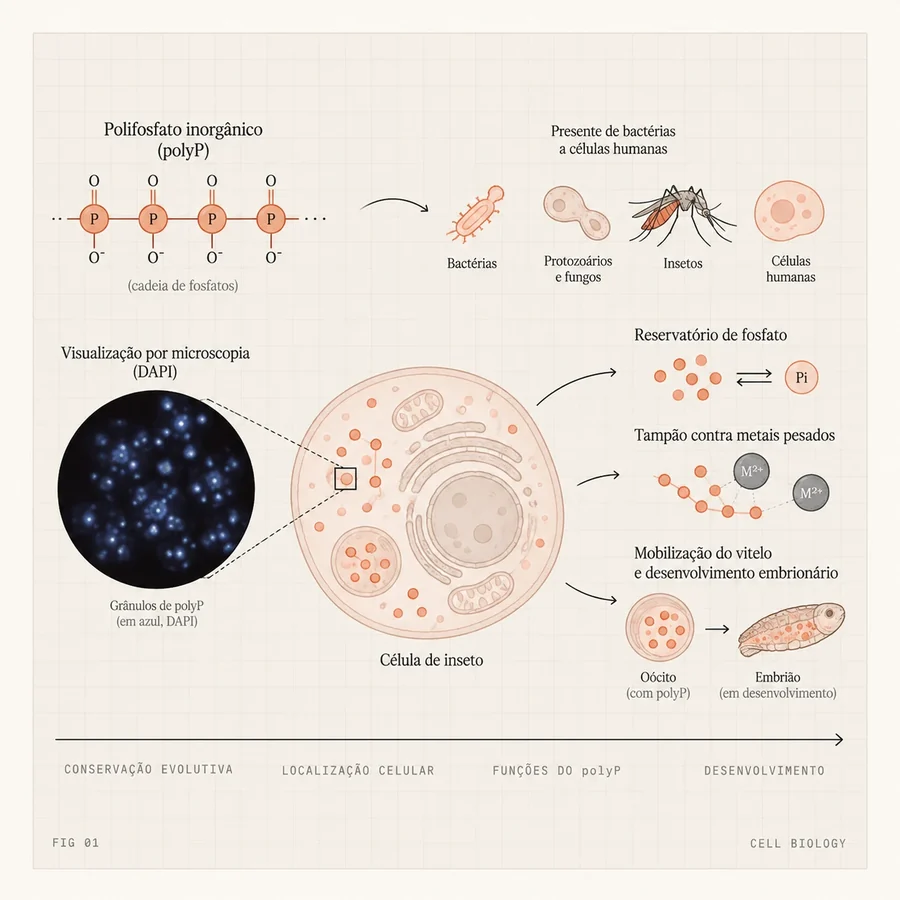
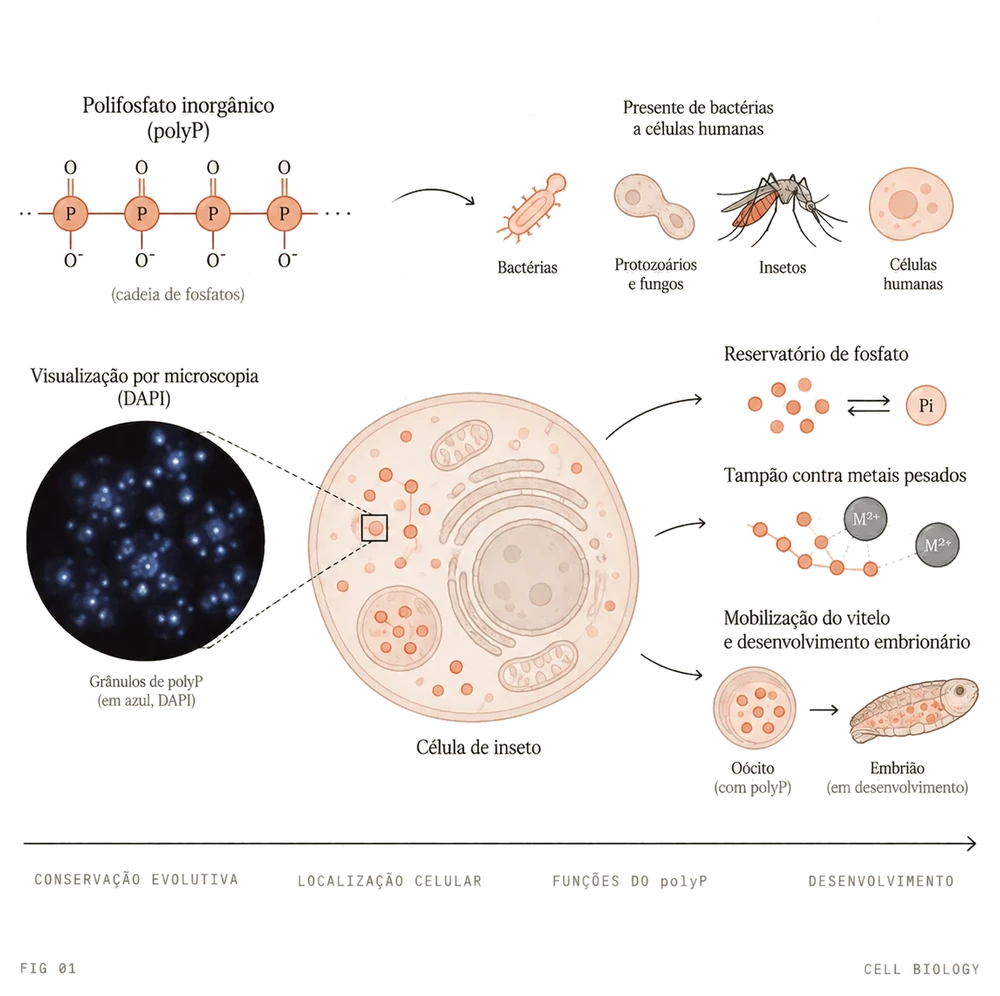
Fix broken research artwork: auto-crop to content, transparent background
The illustrations were being cut. They are square (1:1) but .diagram-box is 5:4
and I had set object-fit:cover, which scales to fill and clips ~20% of the
height - top and bottom of every figure. My mistake.

Reprocessed each illustration from the 1254px originals:
- The supplied files are rendered cards: a ~45px cream margin, a 1-2px border
  line, then a slightly different cream panel holding the art. That inner frame
  also doubled the border of our own diagram box.
- Detect the panel rect, inset past the border line, then flood-fill the panel
  background from its edges (connectivity, not plain colour match, so pale areas
  inside the drawing survive), feather the cut and crop to the content bounding
  box with 2% padding.
- Output WebP RGBA. Resulting opacity is 16-39%, matching the 14-36% ink
  coverage measured on the originals - nothing of the drawing was eaten.

Display: box is now 1:1 to match the art, object-fit:contain so nothing can be
clipped again, padding so the art breathes and clears the caption.

The art is light-toned (mean luminance 0.75; only 7-28% of ink is dark), so on
a dark page its linework would disappear. The plate therefore stays light in
both themes, with the caption pinned to a fixed ink colour - a figure on paper,
which is what these drawings are.

Changed region(s): [[0.0, 0.0311, 0.9956, 0.9956], [0.7156, 0.9022, 0.7467, 0.9333]]

diff --git a/research.html b/research.html
@@ -32,9 +32,10 @@
 .research-detail .refs li a:hover, .research-detail .refs li a:hover em { color: var(--coral-deep); }
 .research-detail .refs li a:focus-visible { outline: 2px solid var(--coral); outline-offset: 2px; border-radius: 2px; }
 
-.diagram-box { aspect-ratio: 5/4; background: var(--paper-2); border: 1px solid var(--line); border-radius: 4px; position: relative; overflow: hidden; }
+.diagram-box { aspect-ratio: 1/1; background: #FBF8F3; border: 1px solid var(--line); border-radius: 6px; position: relative; overflow: hidden; }
+html[data-theme="dark"] .diagram-box { background: #F6F2EA; border-color: rgba(255,255,255,.16); }
 .diagram-box svg { position: absolute; inset: 0; width: 100%; height: 100%; }
-.diagram-box .caption { position: absolute; bottom: 14px; left: 14px; right: 14px; font-family: 'JetBrains Mono', monospace; font-size: 9px; letter-spacing: 0.14em; text-transform: uppercase; color: var(--muted); display: flex; justify-content: space-between; }
+.diagram-box .caption { position: absolute; bottom: 14px; left: 16px; right: 16px; font-family: 'JetBrains Mono', monospace; font-size: 9px; letter-spacing: 0.14em; text-transform: uppercase; color: #8A8478; display: flex; justify-content: space-between; }
 
 .infra { background: var(--ink); color: var(--paper); padding: 80px 0; }
 .infra h3 { font-family: 'Instrument Serif', serif; font-size: clamp(36px, 5vw, 56px); line-height: 1.05; letter-spacing: -0.02em; max-width: 18ch; }
@@ -55,8 +56,8 @@
 .group-head p { font-size:16px; color:var(--ink-2); line-height:1.65; max-width:62ch; margin-top:18px; }
 .group-core { background:var(--coral-wash); border-radius:8px; padding:44px 40px 8px; margin-top:8px; }
 @media (max-width:720px){ .group-core { padding:28px 22px 4px; } }
-.diagram-box img { position:absolute; inset:0; width:100%; height:100%; object-fit:cover; display:block; }
-html[data-theme="dark"] .diagram-box img { filter:brightness(.93) saturate(.95); }
+.diagram-box img { position:absolute; inset:0; width:100%; height:100%; object-fit:contain;
+  padding:18px 18px 38px; box-sizing:border-box; display:block; }
 </style>
 </head>
 <body>
